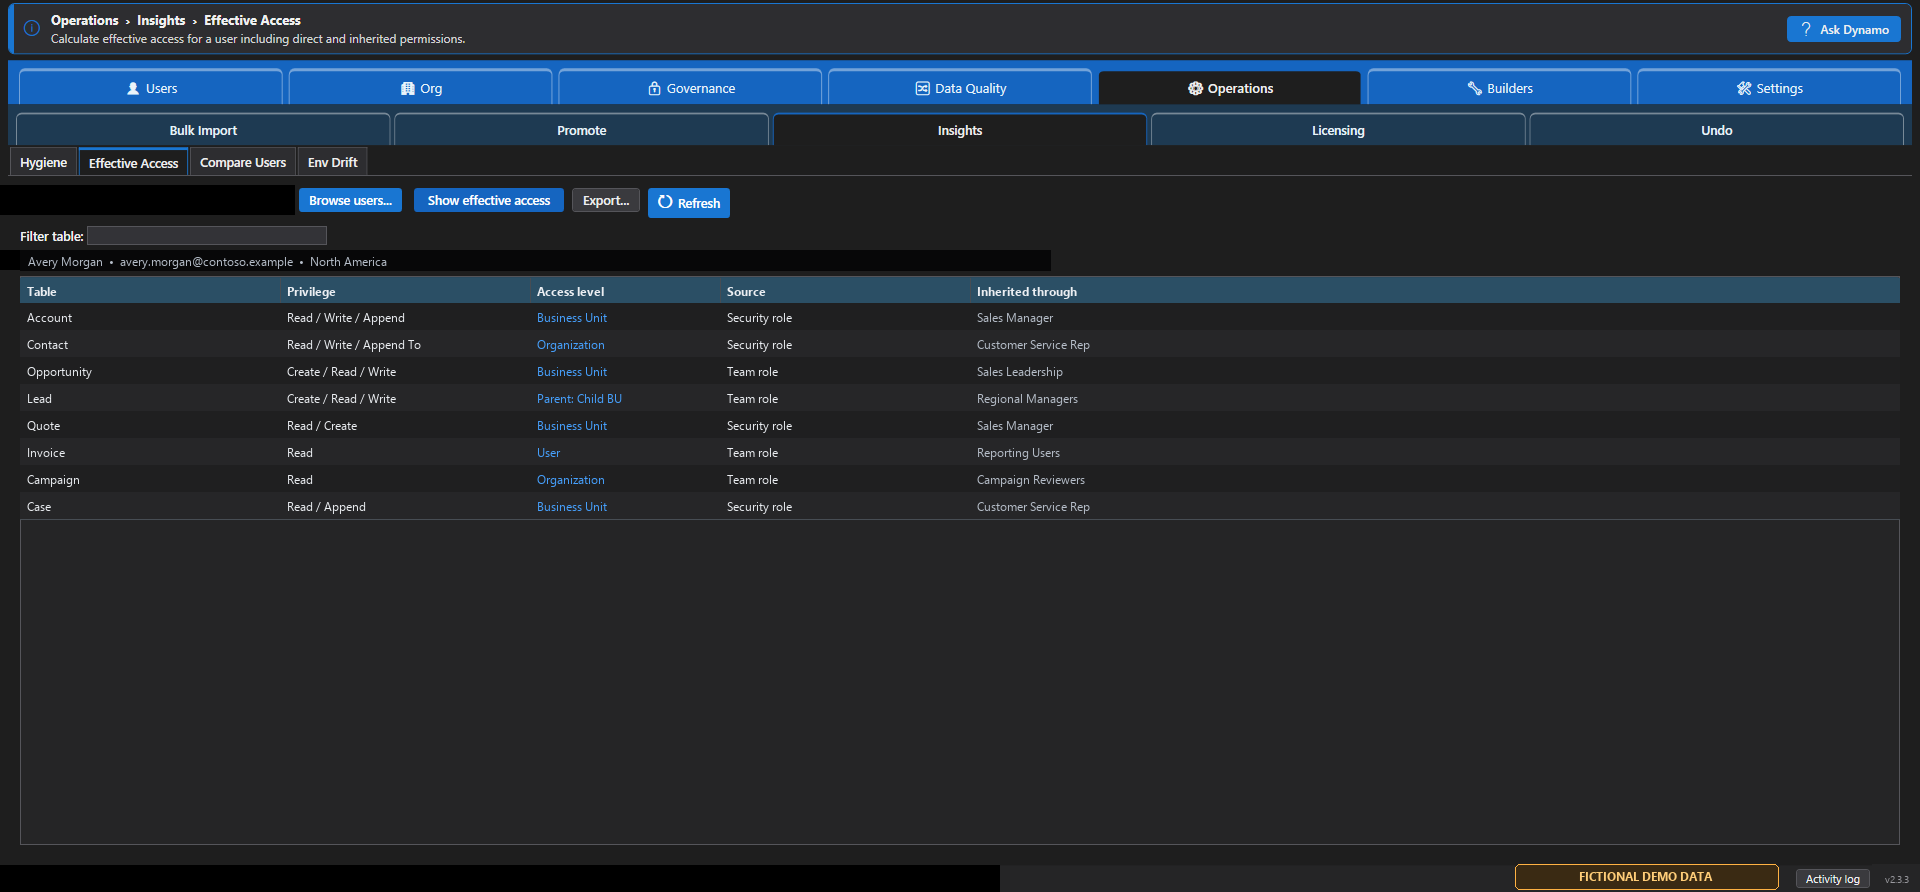
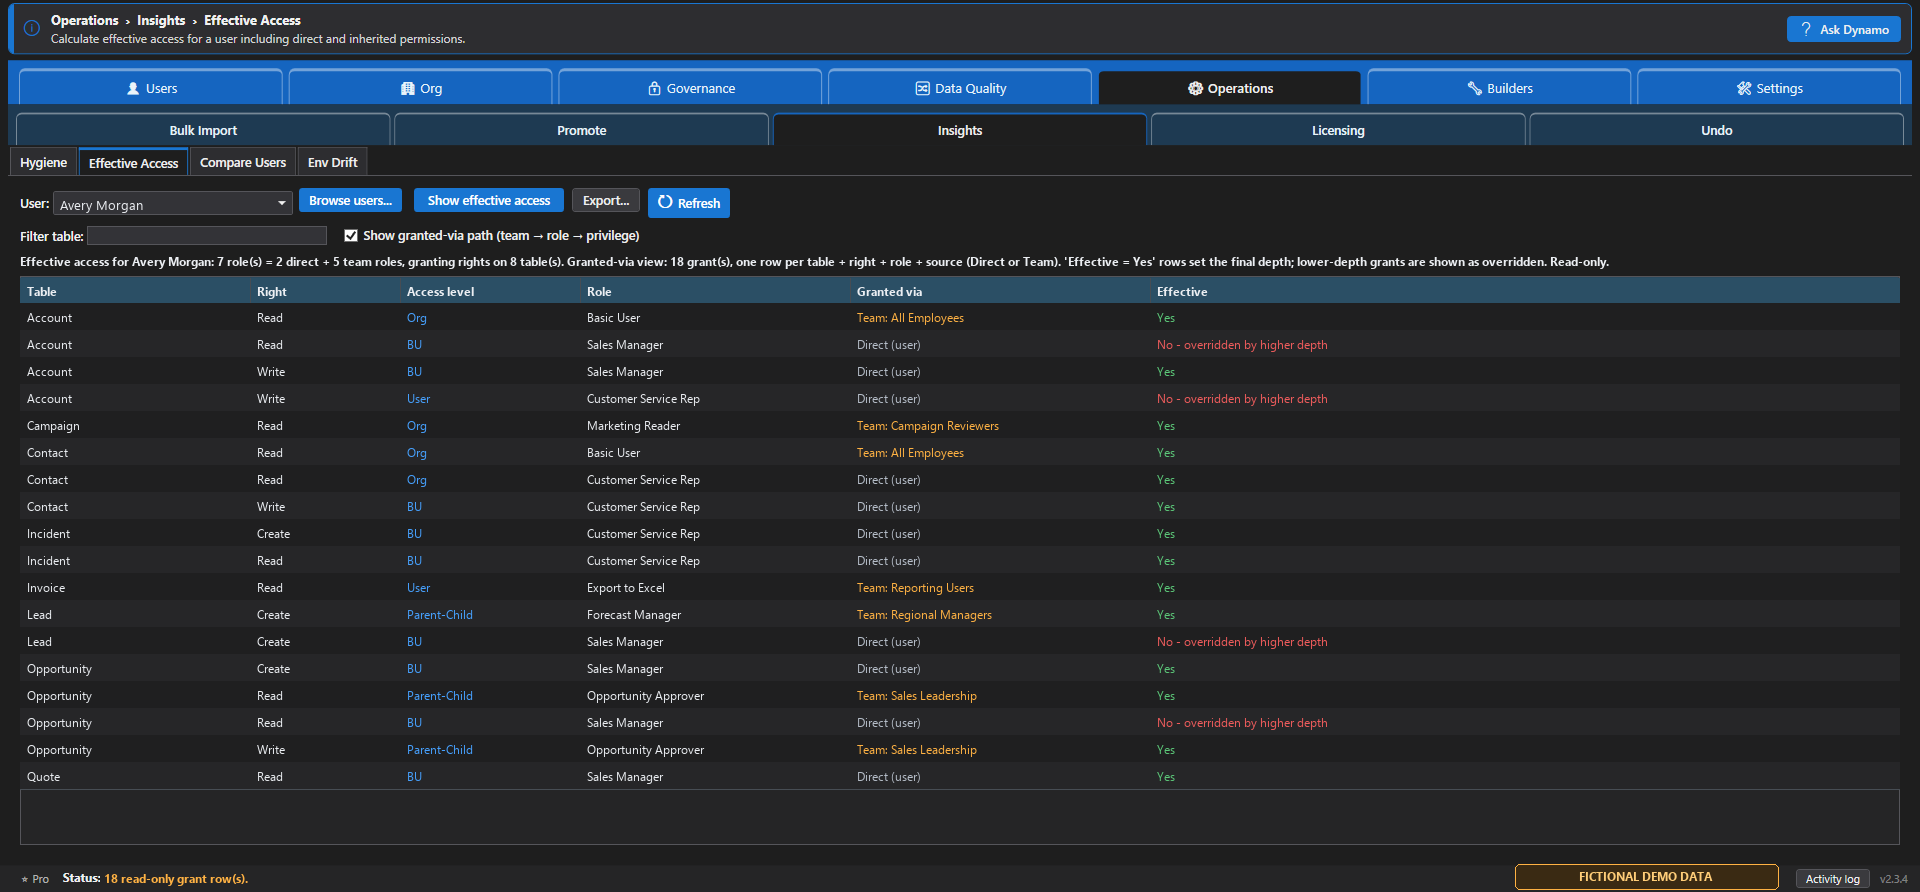
Show Effective Access granted-via path view (v2.3.4) in screenshot and docs

diff --git a/user-manual.html b/user-manual.html
@@ -107,14 +107,14 @@
         <tr><td>Bulk Import</td><td>Load a CSV, run <strong>Validate / Preview</strong>, review the preview, then apply.</td><td><span class="tier pro">Pro</span> Validate before every import.</td></tr>
         <tr><td>Promote</td><td>Compare configuration between source and target environments, then apply reviewed changes.</td><td><span class="tier pro">Pro</span> Verify source/target direction.</td></tr>
         <tr><td>Insights &gt; Hygiene</td><td>Find stale security objects, unused objects, and ownership issues.</td><td><span class="tier pro">Pro</span> Review/export.</td></tr>
-        <tr><td>Insights &gt; Effective Access</td><td>Calculate a user's direct and inherited permissions.</td><td><span class="tier pro">Pro</span> Read-only.</td></tr>
+        <tr><td>Insights &gt; Effective Access</td><td>Calculate a user's direct and inherited permissions. From version 2.3.4, tick <strong>Show granted-via path</strong> to list each table, right, access level, role and source (direct or team), with <strong>Effective</strong> marking the grant that sets the final level.</td><td><span class="tier pro">Pro</span> Read-only.</td></tr>
         <tr><td>Insights &gt; Compare Users</td><td>Compare two access footprints side by side.</td><td><span class="tier pro">Pro</span> Read-only.</td></tr>
         <tr><td>Insights &gt; Env Drift</td><td>Detect configuration differences across environments.</td><td><span class="tier pro">Pro</span> Read-only/export.</td></tr>
         <tr><td>Licensing &gt; Overview / Waste Report</td><td>Review Microsoft license pools, assignments, availability, and likely cleanup candidates.</td><td><span class="tier pro">Pro</span> Reports do not automatically reclaim seats.</td></tr>
         <tr><td>Undo</td><td>Review recent actions, select a reversible action, and use <strong>Undo Selected</strong>.</td><td>Only actions reported as reversible can be undone. Export or clear history as needed.</td></tr>
       </tbody>
     </table></div>
-    <img class="doc-image" src="assets/screenshots/04-effective-access.png" alt="Operations Insights Effective Access screen">
+    <img class="doc-image" src="assets/screenshots/04-effective-access.png" alt="Operations Insights Effective Access screen showing the granted-via path view">
 
     <h2 id="settings">Settings</h2>
     <ul>

diff --git a/blog-effective-access.html b/blog-effective-access.html
@@ -16,10 +16,10 @@
     Looking at only one layer can produce a confident but incomplete answer.</p>
   <h2>Calculate effective access</h2>
   <p>Effective Access combines direct and inherited permissions. Filter the result to the table and
-    operation under investigation, then trace the source. This is often faster than opening every
+    operation under investigation, then trace the source. From version 2.3.4, the <strong>Show granted-via path</strong> option lists which role grants each right and whether it comes directly or through a team. This is often faster than opening every
     role and team manually, but it should still be paired with the current business-unit and
     ownership context.</p>
-  <img class="doc-image" src="assets/screenshots/04-effective-access.png" alt="Effective Access calculation screen">
+  <img class="doc-image" src="assets/screenshots/04-effective-access.png" alt="Effective Access granted-via path view showing role, team source and effective flag">
   <h2>Compare a known-good peer</h2>
   <p>User comparison is useful when one person has the expected access and another does not.
     Compare their complete footprints rather than copying everything immediately. A difference may
